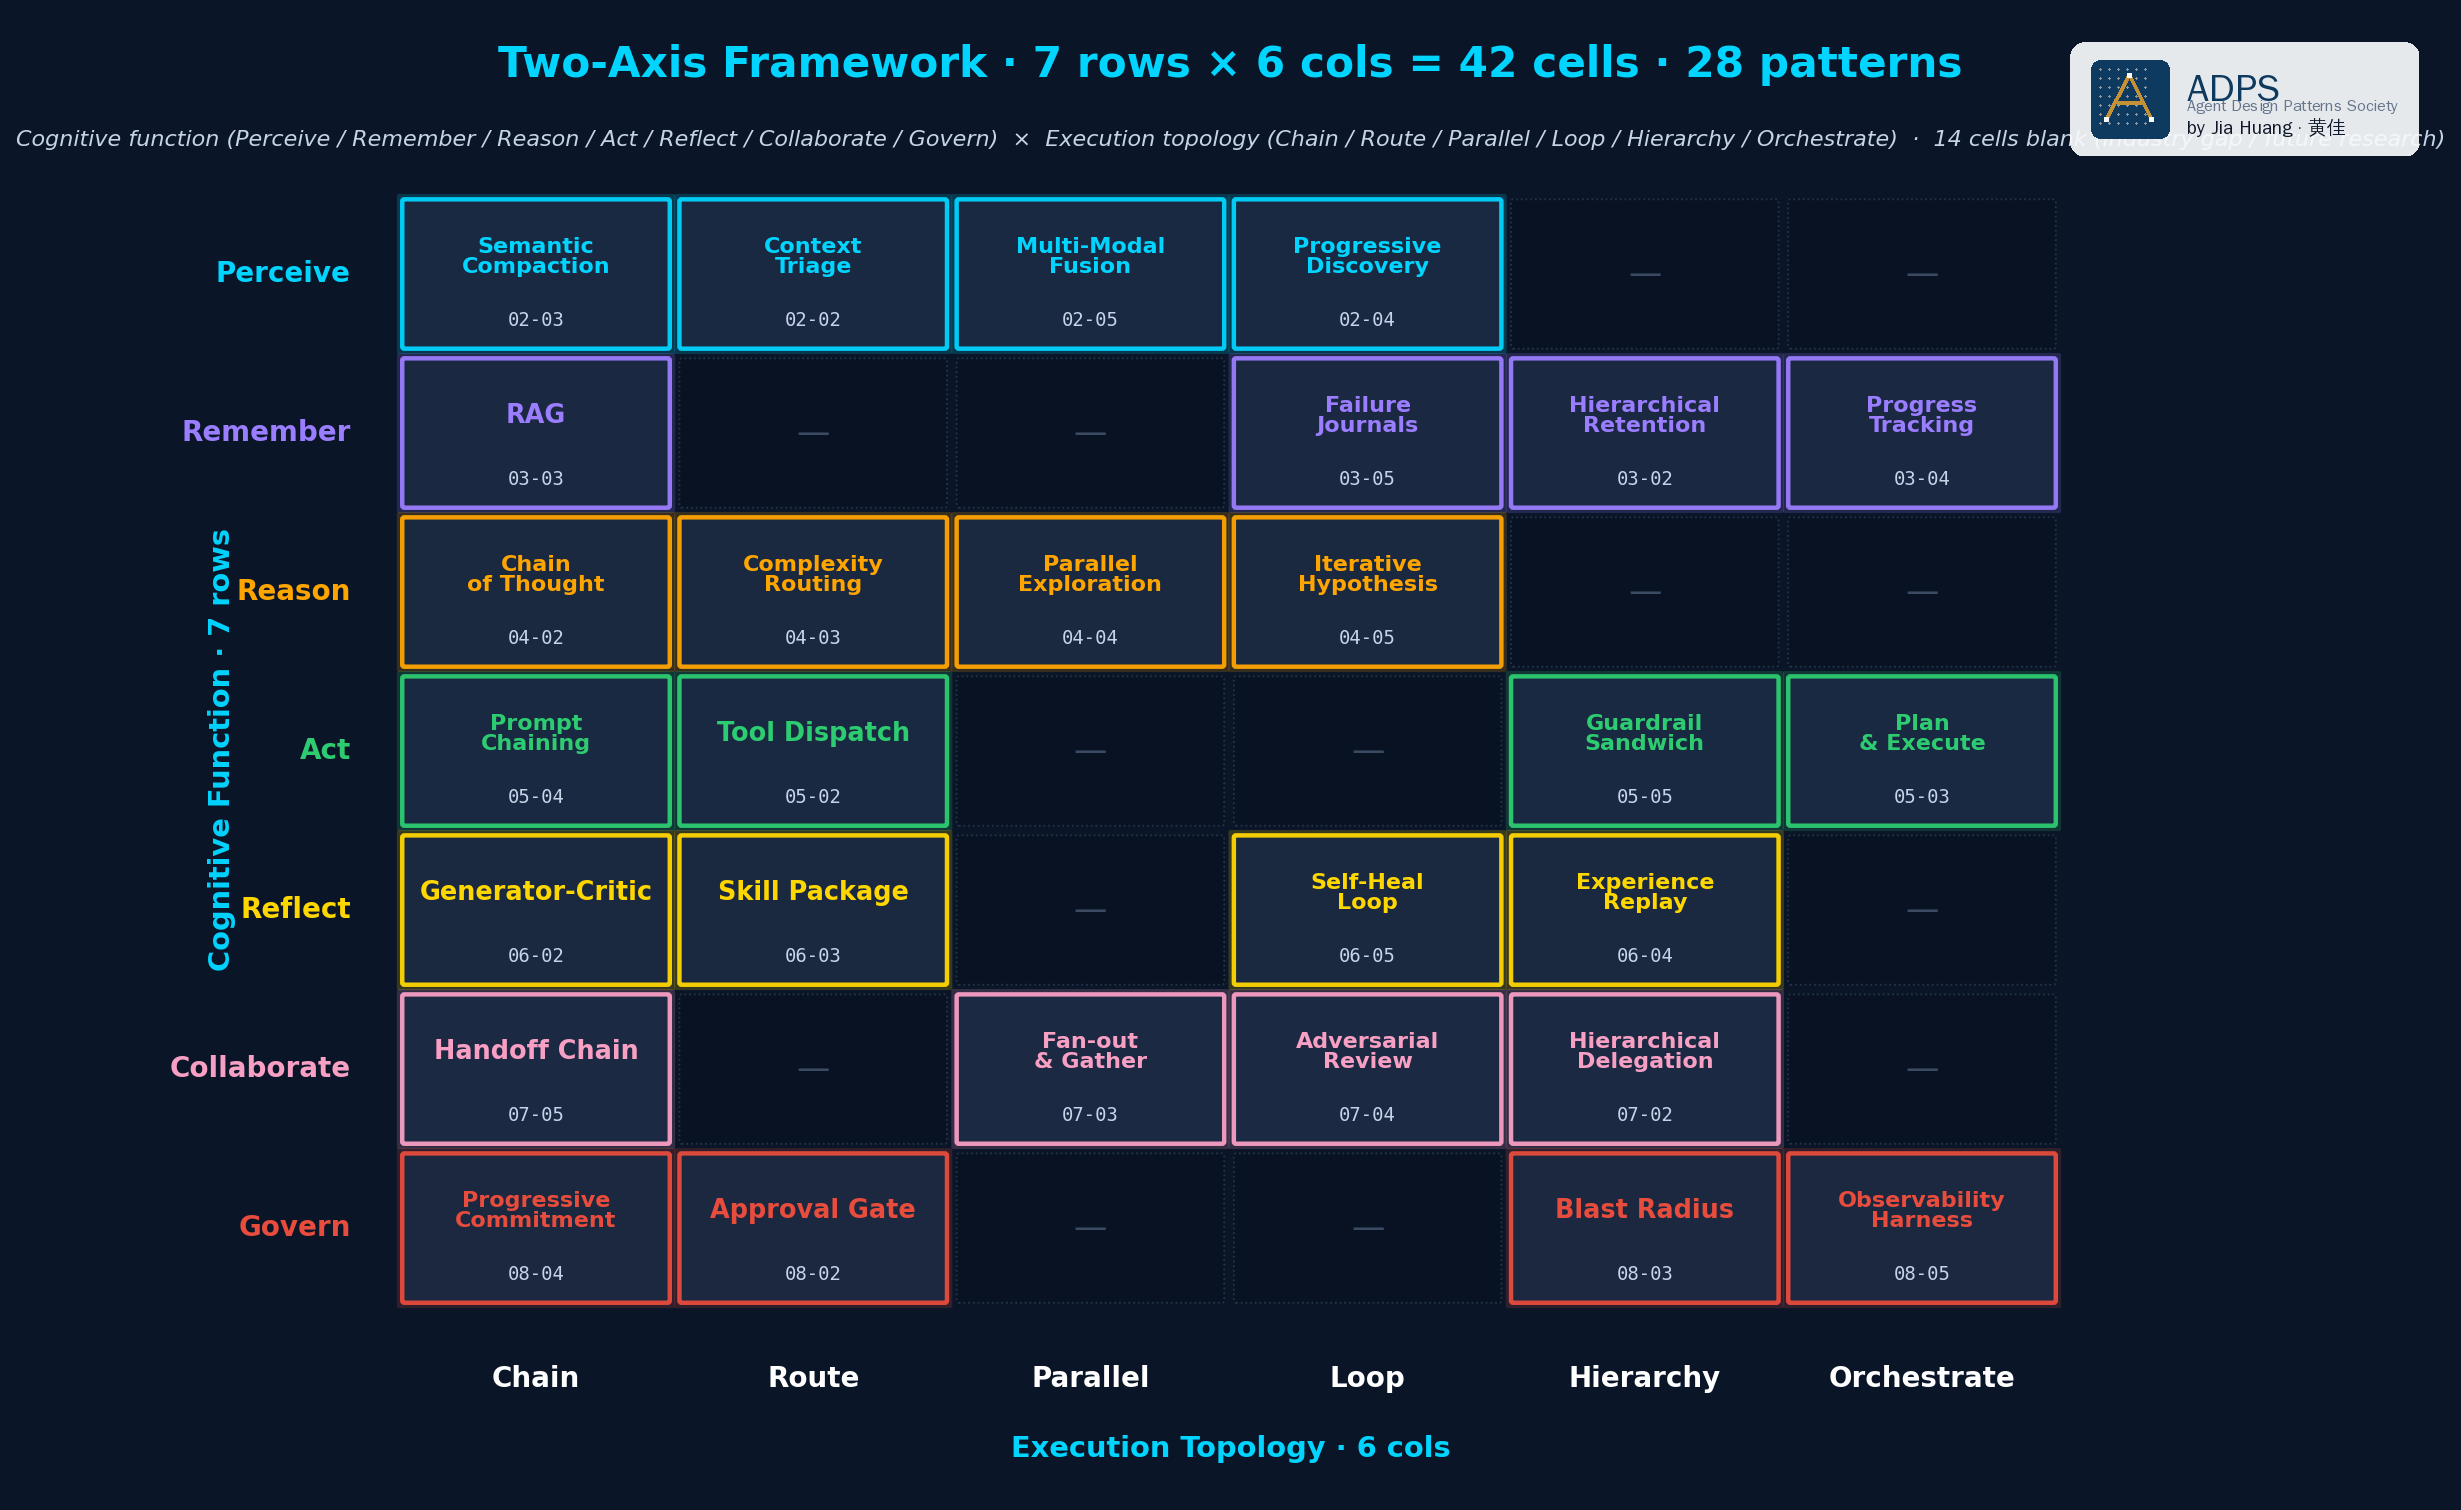
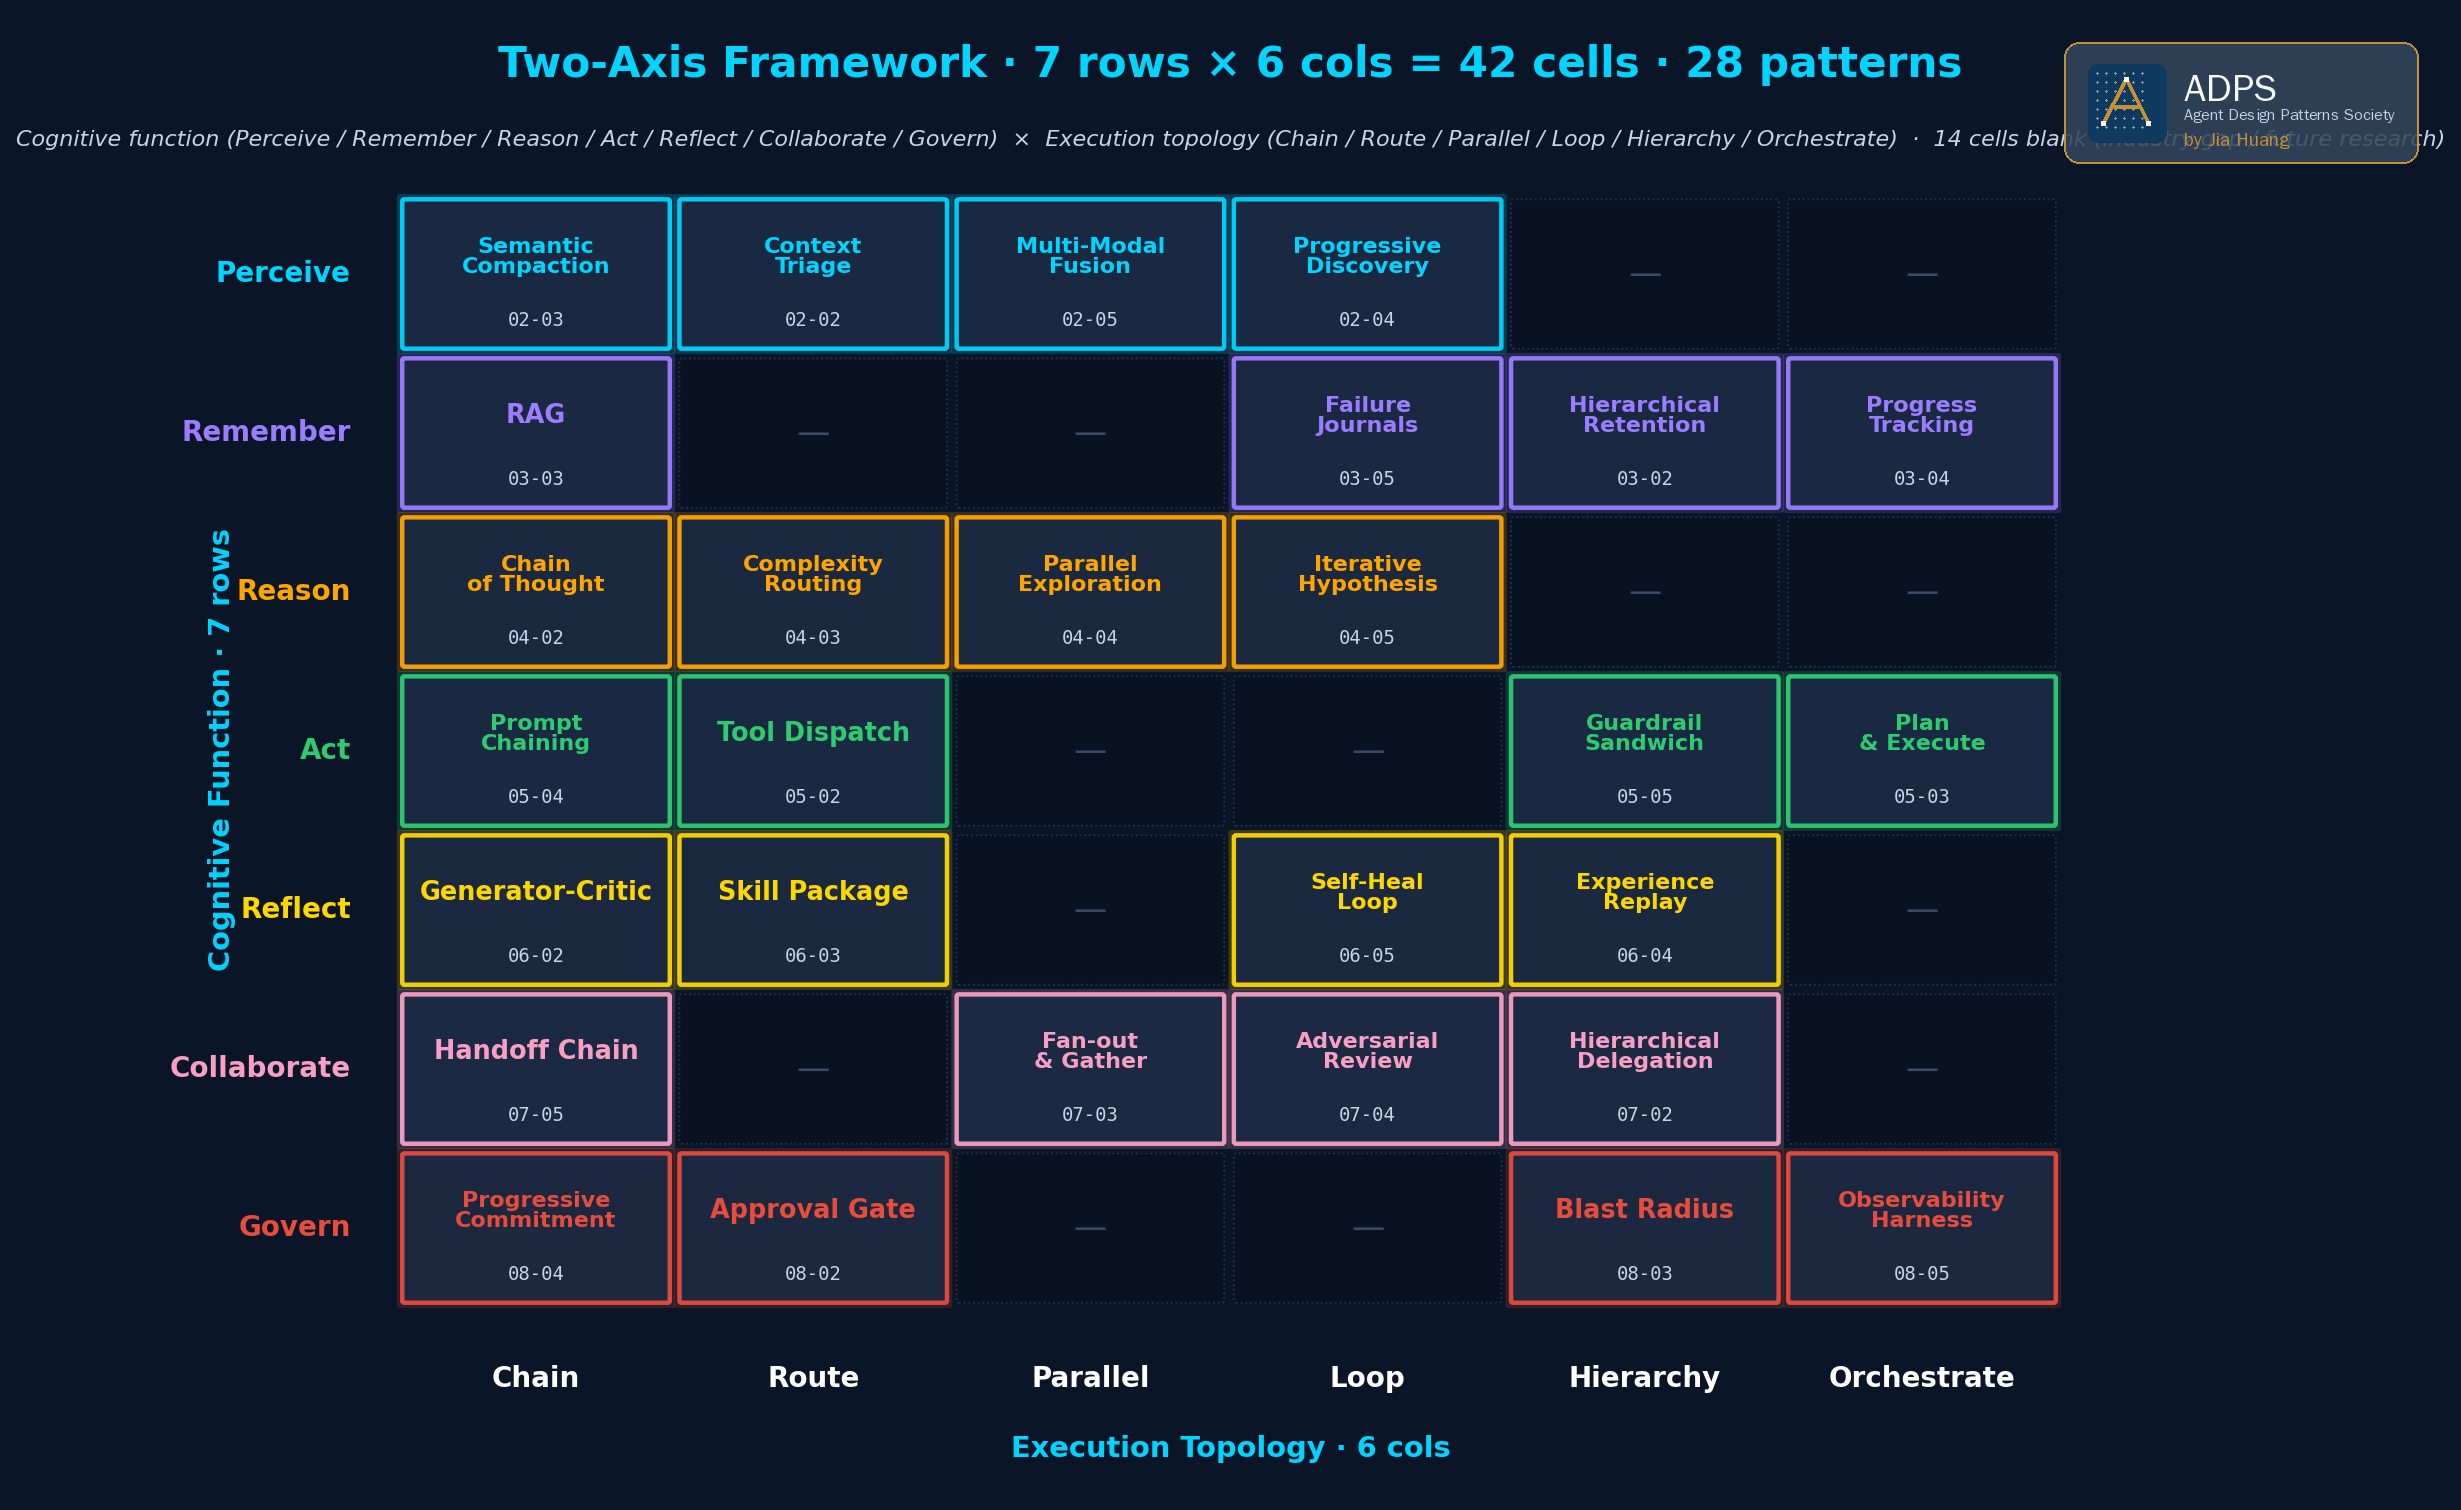
Watermark v4: softer dark-bg panel, more breathing room, en-only byline (by Jia Huang)

Changed region(s): [[0.8338, 0.0, 0.9882, 0.1245]]

diff --git a/docs/add_watermark.py b/docs/add_watermark.py
@@ -1,26 +1,28 @@
 """
-ADPS 双轴矩阵图片水印工具 · v3 (右上角版)
+ADPS 双轴矩阵图片水印工具 · v4 (2026-07-18)
 ==========================================
-在源图右上角空白处叠加水印。不改变画布尺寸,直接 overlay。
-Layout: [icon] ADPS wordmark(单行) + "by Jia Huang · 黄佳"(第二行,右对齐)
+v4 相对 v3 三个改动:
+1. 深底图上不再用白面板 (突兀), 改成半透明 navy 面板 + gold 描边, 与图融合
+2. ADPS wordmark 与副标题之间加更多呼吸空间 (line_gap 4→10)
+3. 增加 lang 参数: "en" 只显示 "by Jia Huang"; "zh" 只显示 "by 黄佳"; "both" 双语 (旧行为)
 
 用法:
-    python3 add_watermark.py <input.png> <output.png>
+    python3 add_watermark.py <input.png> <output.png> [--position tr|br|tl|bl] [--lang en|zh|both]
 
 或从其它脚本导入:
     from add_watermark import add_watermark
-    add_watermark("in.png", "out.png")
+    add_watermark("in.png", "out.png", position="tr", lang="en")
 """
 from pathlib import Path
 from PIL import Image, ImageDraw, ImageFont
 import sys
 
-# 配色: 与 adps-logo.svg 一致
-NAVY = (15, 58, 95)          # #0f3a5f
-GOLD = (196, 145, 54)        # #c49136
-INK_LIGHT = (248, 250, 252)  # #f8fafc
-INK_DARK = (15, 23, 42)      # #0f172a
-INK_MUTED = (100, 116, 139)  # #64748b
+NAVY = (15, 58, 95)
+GOLD = (196, 145, 54)
+INK_LIGHT = (248, 250, 252)
+INK_DARK = (15, 23, 42)
+INK_MUTED = (100, 116, 139)
+MUTED_LIGHT = (199, 212, 232)
 
 FONT_CANDIDATES = [
     "/usr/share/fonts/truetype/wqy/wqy-zenhei.ttc",
@@ -38,68 +40,79 @@ def _f(size):
 
 
 def detect_bg_color(img: Image.Image):
-    """四角采样判定底色。返回 (bg_rgb, is_dark)。"""
     W, H = img.size
     if img.mode != "RGBA":
         img = img.convert("RGBA")
-    # 只采样左下 + 右下 corners（避开右上角本身,因为我们要在那里放水印）
     corners = [(0, 0), (W - 10, 0), (0, H - 10), (W - 10, H - 10)]
     r_sum, g_sum, b_sum, cnt = 0, 0, 0, 0
     for cx, cy in corners:
         crop = img.crop((cx, cy, cx + 10, cy + 10))
         for px in crop.getdata():
-            r_sum += px[0]
-            g_sum += px[1]
-            b_sum += px[2]
-            cnt += 1
+            r_sum += px[0]; g_sum += px[1]; b_sum += px[2]; cnt += 1
     r, g, b = r_sum // cnt, g_sum // cnt, b_sum // cnt
     luminance = 0.2126 * r + 0.7152 * g + 0.0722 * b
     return (r, g, b), luminance < 128
 
 
-def build_watermark_tile(is_dark_bg: bool, scale: float = 1.0):
+def build_watermark_tile(is_dark_bg: bool, scale: float = 1.0, lang: str = "both", bg_rgb=None):
     """
-    构建紧凑的右上角水印 tile(RGBA)。
-    Layout:
-      [icon] ADPS
-             Agent Design Patterns Society
-             by Jia Huang · 黄佳
+    构建紧凑水印 tile(RGBA)。
+    lang: "en" → "by Jia Huang" · "zh" → "by 黄佳" · "both" → "by Jia Huang · 黄佳"
     """
     icon = int(52 * scale)
-    pad_x = int(14 * scale)
-    pad_y = int(12 * scale)
+    pad_x = int(16 * scale)
+    pad_y = int(14 * scale)
     text_gap_x = int(12 * scale)
-    line_gap = int(4 * scale)
+    line_gap_title = int(10 * scale)  # ADPS → subtitle (v3 是 4, 呼吸不够)
+    line_gap_sub = int(6 * scale)     # subtitle → by
 
     f_adps = _f(int(26 * scale))
     f_sub = _f(int(11 * scale))
     f_by = _f(int(13 * scale))
 
-    # 测量文本
+    if lang == "en":
+        by_text = "by Jia Huang"
+    elif lang == "zh":
+        by_text = "by 黄佳"
+    else:
+        by_text = "by Jia Huang · 黄佳"
+
     tmp = Image.new("RGBA", (10, 10))
     d = ImageDraw.Draw(tmp)
     adps_box = d.textbbox((0, 0), "ADPS", font=f_adps)
     adps_w, adps_h = adps_box[2] - adps_box[0], adps_box[3] - adps_box[1]
     sub_box = d.textbbox((0, 0), "Agent Design Patterns Society", font=f_sub)
     sub_w, sub_h = sub_box[2] - sub_box[0], sub_box[3] - sub_box[1]
-    by_box = d.textbbox((0, 0), "by Jia Huang · 黄佳", font=f_by)
+    by_box = d.textbbox((0, 0), by_text, font=f_by)
     by_w, by_h = by_box[2] - by_box[0], by_box[3] - by_box[1]
 
     text_col_w = max(adps_w, sub_w, by_w)
     inner_w = icon + text_gap_x + text_col_w
-    inner_h = max(icon, adps_h + line_gap + sub_h + line_gap + by_h)
+    inner_h = max(icon, adps_h + line_gap_title + sub_h + line_gap_sub + by_h)
 
     W = inner_w + pad_x * 2
     H = inner_h + pad_y * 2
 
-    # 半透明底(浅或深根据 bg)
     if is_dark_bg:
-        bg_fill = (INK_LIGHT[0], INK_LIGHT[1], INK_LIGHT[2], 235)
-        text_color_primary = NAVY
-        text_color_sub = INK_MUTED
-        text_color_by = INK_DARK
+        # v4: 与底图融合的半透明 navy 面板 + gold 边框, 不再是刺眼白块
+        if bg_rgb is not None:
+            r, g, b = bg_rgb
+            # 面板色 = 底色再暗一点 + 轻微 navy tint, 保持一致性
+            panel_r = max(0, min(255, int(r * 0.6 + NAVY[0] * 0.4)))
+            panel_g = max(0, min(255, int(g * 0.6 + NAVY[1] * 0.4)))
+            panel_b = max(0, min(255, int(b * 0.6 + NAVY[2] * 0.4)))
+            bg_fill = (panel_r, panel_g, panel_b, 215)
+        else:
+            bg_fill = (15, 40, 70, 215)
+        border_color = GOLD
+        border_w = max(1, int(1.5 * scale))
+        text_color_primary = INK_LIGHT
+        text_color_sub = MUTED_LIGHT
+        text_color_by = GOLD
     else:
-        bg_fill = (255, 255, 255, 235)
+        bg_fill = (255, 255, 255, 232)
+        border_color = NAVY
+        border_w = max(1, int(1 * scale))
         text_color_primary = NAVY
         text_color_sub = INK_MUTED
         text_color_by = INK_DARK
@@ -107,22 +120,24 @@ def build_watermark_tile(is_dark_bg: bool, scale: float = 1.0):
     tile = Image.new("RGBA", (W, H), (0, 0, 0, 0))
     td = ImageDraw.Draw(tile)
 
-    # 圆角背景
     radius = int(10 * scale)
-    td.rounded_rectangle([(0, 0), (W, H)], radius=radius, fill=bg_fill)
+    td.rounded_rectangle(
+        [(0, 0), (W - 1, H - 1)],
+        radius=radius,
+        fill=bg_fill,
+        outline=border_color,
+        width=border_w,
+    )
 
-    # icon 位置(垂直居中)
     icon_x = pad_x
     icon_y = (H - icon) // 2
 
-    # Navy 圆角方块 icon
     td.rounded_rectangle(
         [(icon_x, icon_y), (icon_x + icon, icon_y + icon)],
         radius=int(6 * scale),
         fill=NAVY,
     )
 
-    # dot grid
     dot_r = max(1, int(0.9 * scale))
     dot_spacing = int(6 * scale)
     dot_start = int(6.5 * scale)
@@ -137,8 +152,7 @@ def build_watermark_tile(is_dark_bg: bool, scale: float = 1.0):
                     fill=dot_fill,
                 )
 
-    # gold "A" mark
-    def _s(v):  # SVG 内部 0-64 缩放
+    def _s(v):
         return int(v * (icon / 64.0))
     gold_w = max(2, int(2.8 * scale))
     a_left = (icon_x + _s(13), icon_y + _s(49))
@@ -157,21 +171,20 @@ def build_watermark_tile(is_dark_bg: bool, scale: float = 1.0):
             fill=INK_LIGHT,
         )
 
-    # 文字栈
     text_x = icon_x + icon + text_gap_x
-    total_text_h = adps_h + line_gap + sub_h + line_gap + by_h
+    total_text_h = adps_h + line_gap_title + sub_h + line_gap_sub + by_h
     text_y = (H - total_text_h) // 2
 
     td.text((text_x, text_y), "ADPS", font=f_adps, fill=text_color_primary)
     td.text(
-        (text_x, text_y + adps_h + line_gap),
+        (text_x, text_y + adps_h + line_gap_title),
         "Agent Design Patterns Society",
         font=f_sub,
         fill=text_color_sub,
     )
     td.text(
-        (text_x, text_y + adps_h + line_gap + sub_h + line_gap),
-        "by Jia Huang · 黄佳",
+        (text_x, text_y + adps_h + line_gap_title + sub_h + line_gap_sub),
+        by_text,
         font=f_by,
         fill=text_color_by,
     )
@@ -179,17 +192,17 @@ def build_watermark_tile(is_dark_bg: bool, scale: float = 1.0):
     return tile
 
 
-def add_watermark(src_path: str, dst_path: str, position: str = "tr"):
+def add_watermark(src_path: str, dst_path: str, position: str = "tr", lang: str = "both"):
     """
     在源图指定角落空白处叠加水印。不改变画布尺寸。
     position: 'tr' 右上角(默认) · 'br' 右下角 · 'tl' 左上角 · 'bl' 左下角
+    lang: 'en' 只英文署名 · 'zh' 只中文署名 · 'both' 双语(默认)
     """
     src = Image.open(src_path).convert("RGBA")
     W, H = src.size
 
     bg_rgb, is_dark = detect_bg_color(src)
 
-    # scale 按图宽自动
     if W >= 2200:
         scale = 1.5
     elif W >= 1600:
@@ -201,7 +214,7 @@ def add_watermark(src_path: str, dst_path: str, position: str = "tr"):
     else:
         scale = 0.7
 
-    tile = build_watermark_tile(is_dark, scale=scale)
+    tile = build_watermark_tile(is_dark, scale=scale, lang=lang, bg_rgb=bg_rgb)
     tw, th = tile.size
 
     margin = int(28 * scale)
@@ -217,15 +230,18 @@ def add_watermark(src_path: str, dst_path: str, position: str = "tr"):
     out.paste(tile, (px, py), tile)
 
     out.save(dst_path, "PNG", optimize=True)
-    print(f"Watermarked: {dst_path} ({W}x{H}, tile={tw}x{th}, pos={position}=({px},{py}), bg={'dark' if is_dark else 'light'}, scale={scale})")
+    print(f"Watermarked: {dst_path} ({W}x{H}, tile={tw}x{th}, pos={position}, lang={lang}, bg={'dark' if is_dark else 'light'}, scale={scale})")
 
 
 if __name__ == "__main__":
     if len(sys.argv) < 3:
-        print("用法: python3 add_watermark.py <input.png> <output.png> [--position tr|br|tl|bl]")
+        print("用法: python3 add_watermark.py <input.png> <output.png> [--position tr|br|tl|bl] [--lang en|zh|both]")
         sys.exit(1)
     pos = "tr"
+    lang = "both"
     for i, arg in enumerate(sys.argv):
         if arg == "--position" and i + 1 < len(sys.argv):
             pos = sys.argv[i + 1]
-    add_watermark(sys.argv[1], sys.argv[2], position=pos)
+        if arg == "--lang" and i + 1 < len(sys.argv):
+            lang = sys.argv[i + 1]
+    add_watermark(sys.argv[1], sys.argv[2], position=pos, lang=lang)

diff --git a/docs/render_matrix.py b/docs/render_matrix.py
@@ -189,11 +189,12 @@ if __name__ == "__main__":
     render(base / "matrix.png", clean=False, show_codes=True)
     render(base / "matrix-clean.png", clean=True, show_codes=True)
 
-    # 2026-07-04: 加 ADPS 水印
+    # 2026-07-04→07-18: 加 ADPS 水印 v4 (dark-bg 面板改半透明 navy + gold 边)
+    # EN repo README → lang='en' 只 by Jia Huang
     import sys
     sys.path.insert(0, str(base))
     from add_watermark import add_watermark
     for name in ("matrix.png", "matrix-clean.png"):
         p = base / name
-        add_watermark(str(p), str(p))
+        add_watermark(str(p), str(p), position="tr", lang="en")
         print(f"✓ Watermarked {name}")